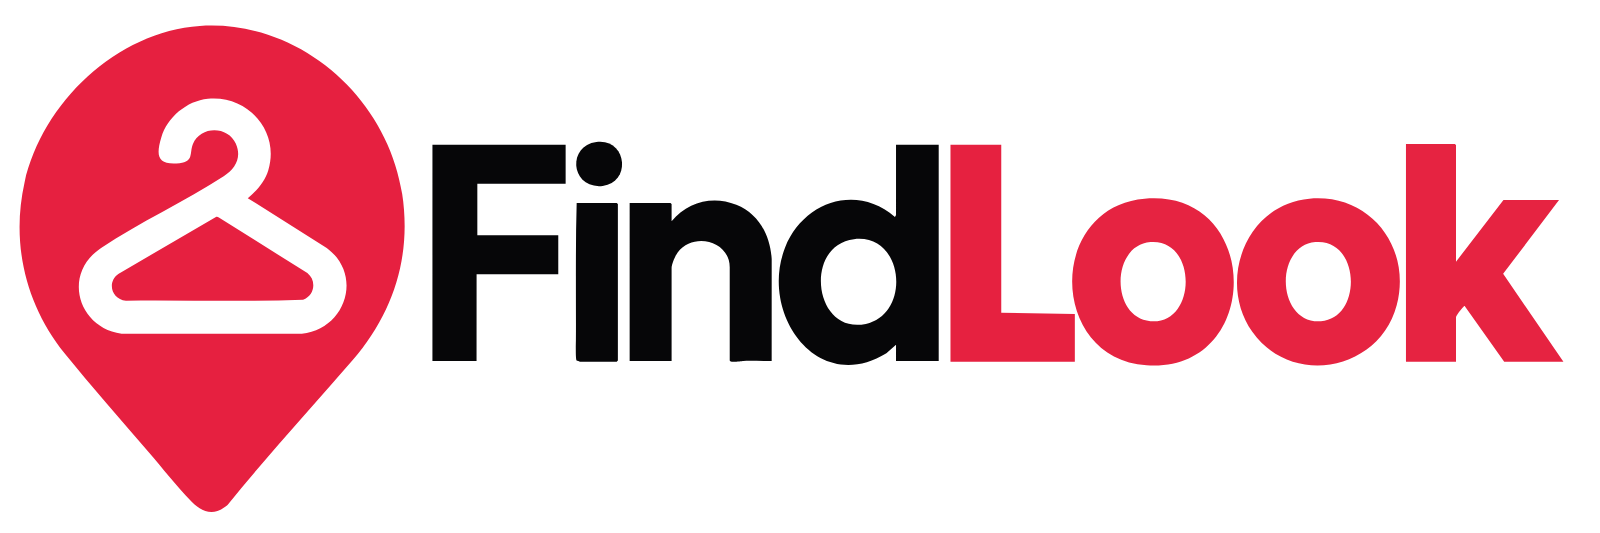
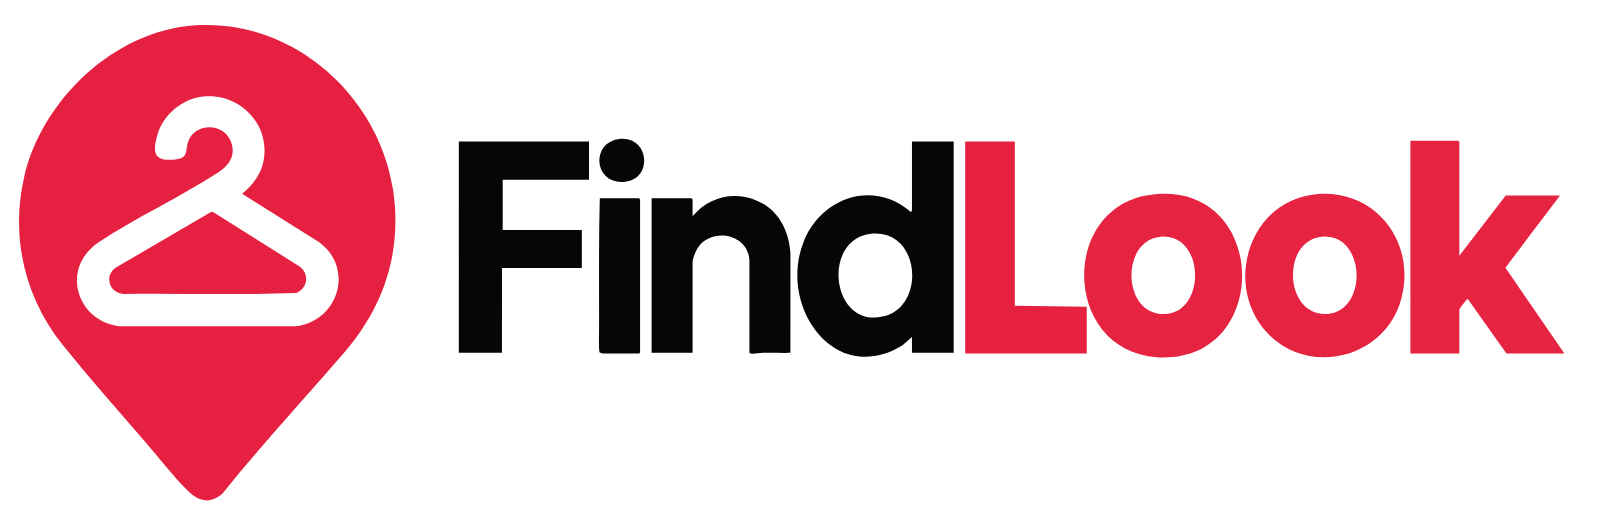
Marca: assinatura horizontal com espaço de 0,3 F entre símbolo e logotipo
Pedido da dona do produto: manter a proporção do símbolo (2,25 F) e aumentar o distanciamento do 'F' (era 0,13 F). Vetores oficiais preservados; só o grupo das letras foi deslocado. SVGs e PNGs regenerados; regra documentada na seção Marca; changelog.

Claude-Session: https://claude.ai/code/session_01MSqFngGq6ftLWpwbK8U6DS

diff --git a/src/app/components/showcase/shared/changelog.ts b/src/app/components/showcase/shared/changelog.ts
@@ -17,6 +17,11 @@ const pt = (text: string): Bi => ({ en: text, pt: text });
 
 export const changelog: ChangeEntry[] = [
   {
+    date: "Nov 2026", kind: "Updated", title: pt("Assinatura horizontal com mais respiro entre símbolo e logotipo"),
+    desc: pt("O espaço entre o símbolo e o logotipo passou de 0,13 F para 0,3 F (F = altura do “F”), nas versões sobre claro e sobre grafite. Proporção do símbolo mantida (2,25 F). SVGs e PNGs de download atualizados."),
+    page: "brand", anchor: "brand-assinatura",
+  },
+  {
     date: "Nov 2026", kind: "New", title: pt("Painel lateral (gaveta)"),
     desc: pt("Componente e documentação do painel que desliza da direita: anatomia (cabeçalho, corpo rolável, barra de ação fixa, rodapé), comportamento, exemplo de formulário em painel (“Cadastrar minha loja”, demonstração), checklist de acessibilidade, uso e tokens. Padrão herdado do formulário de contato do site do estúdio."),
     page: "sidepanel", anchor: "sidepanel-anatomy",

diff --git a/src/app/components/showcase/BrandShowcase.tsx b/src/app/components/showcase/BrandShowcase.tsx
@@ -186,7 +186,7 @@ export function BrandShowcase() {
         <SectionBlock
           id="brand-assinatura"
           title="Assinatura principal — horizontal"
-          subtitle="Símbolo + logotipo. Priorize a assinatura horizontal em peças amplas: cabeçalhos, banners, materiais impressos e apresentações."
+          subtitle="Símbolo + logotipo. Priorize a assinatura horizontal em peças amplas: cabeçalhos, banners, materiais impressos e apresentações. Proporção fixa: símbolo com 2,25 vezes a altura do “F” e espaço de 0,3 F entre o símbolo e o logotipo."
         />
         <div className="grid grid-cols-1 md:grid-cols-2 gap-5">
           <LogoCard
